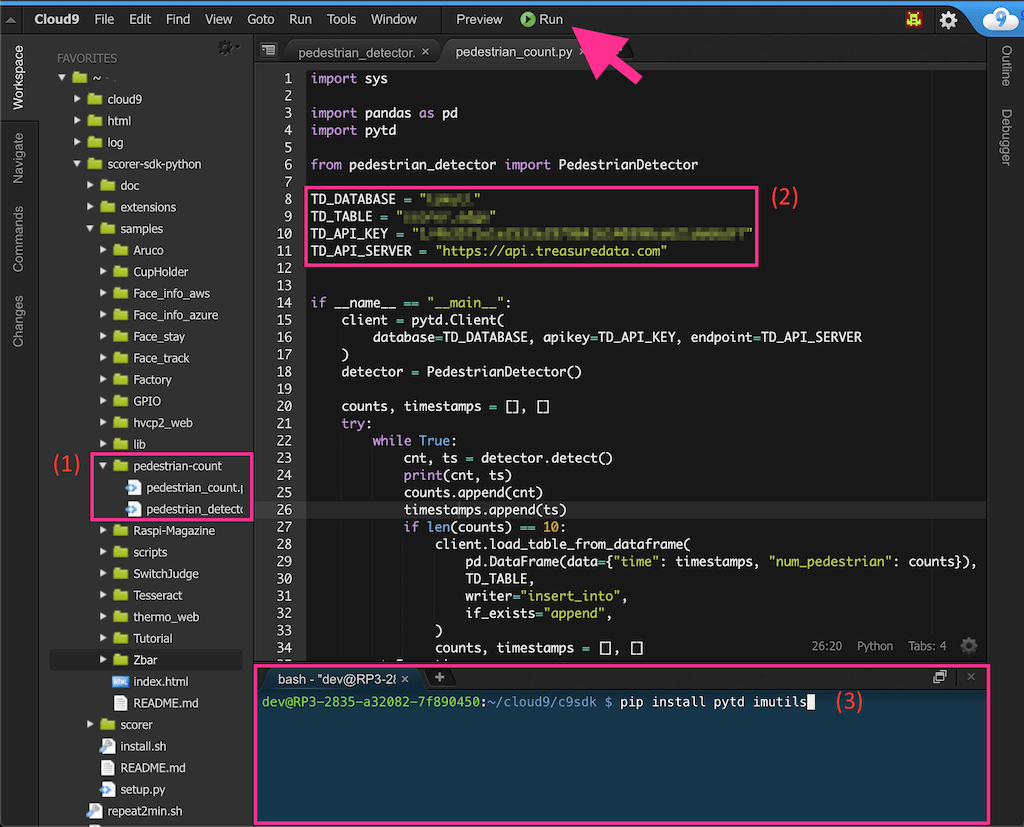
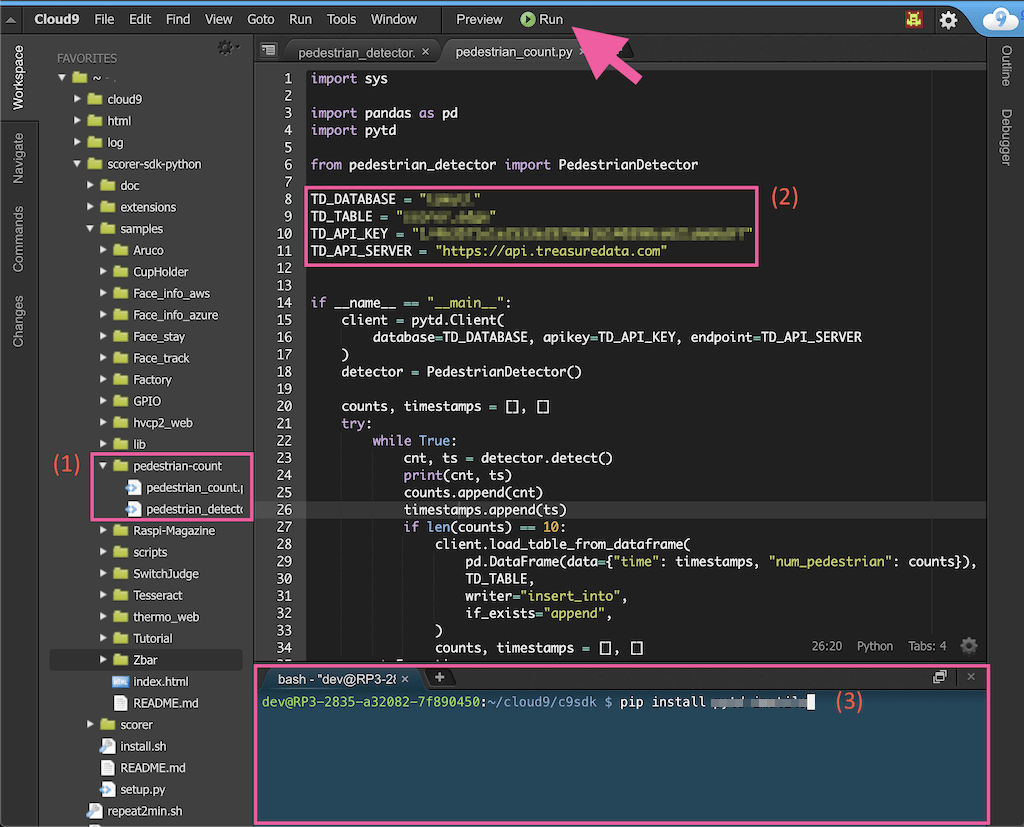
Need to add `--user` in SCORER Edge SDK

diff --git a/integration-box/scorer-edge/README.md b/integration-box/scorer-edge/README.md
@@ -21,7 +21,7 @@ In the SDK console, use sample application provided by this Box as follows:
 2. Set your database and table name, and Treasure Data API key in [`pedestrian_count.py`](pedestrian-count/pedestrian_count.py).
 3. In the shell console, install [`pytd`](https://github.com/treasure-data/pytd/), Treasure Data official Python client, and [`imutils`](https://github.com/jrosebr1/imutils), a collection of basic image processing techniques:
     ```sh
-    pip install pytd imutils
+    pip install --user pytd imutils
     ```
 
 ![scorer-edge-cloud9](images/scorer-edge-cloud9.png)
